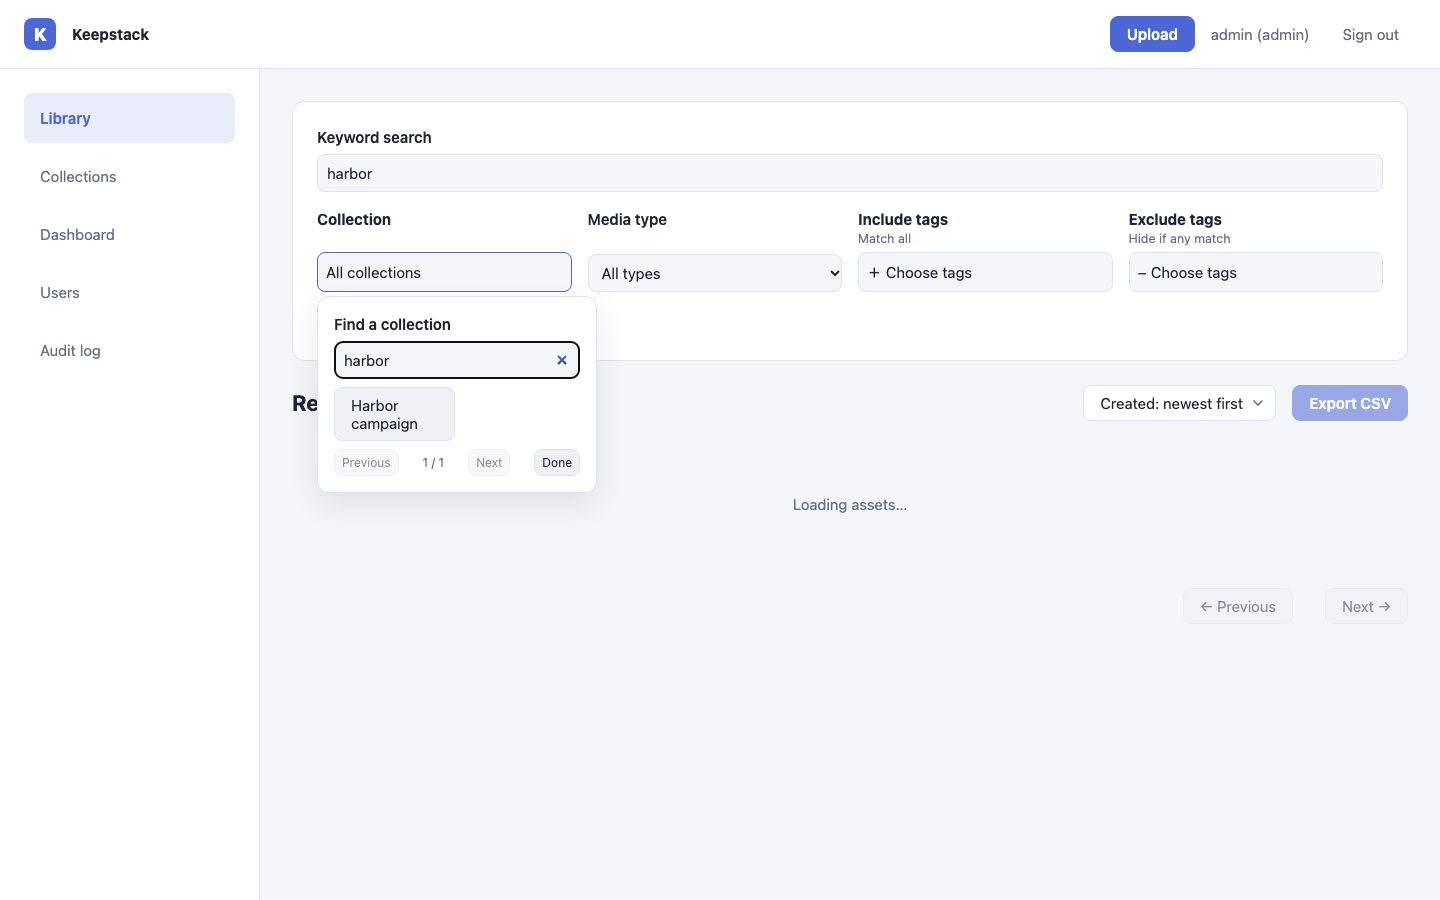
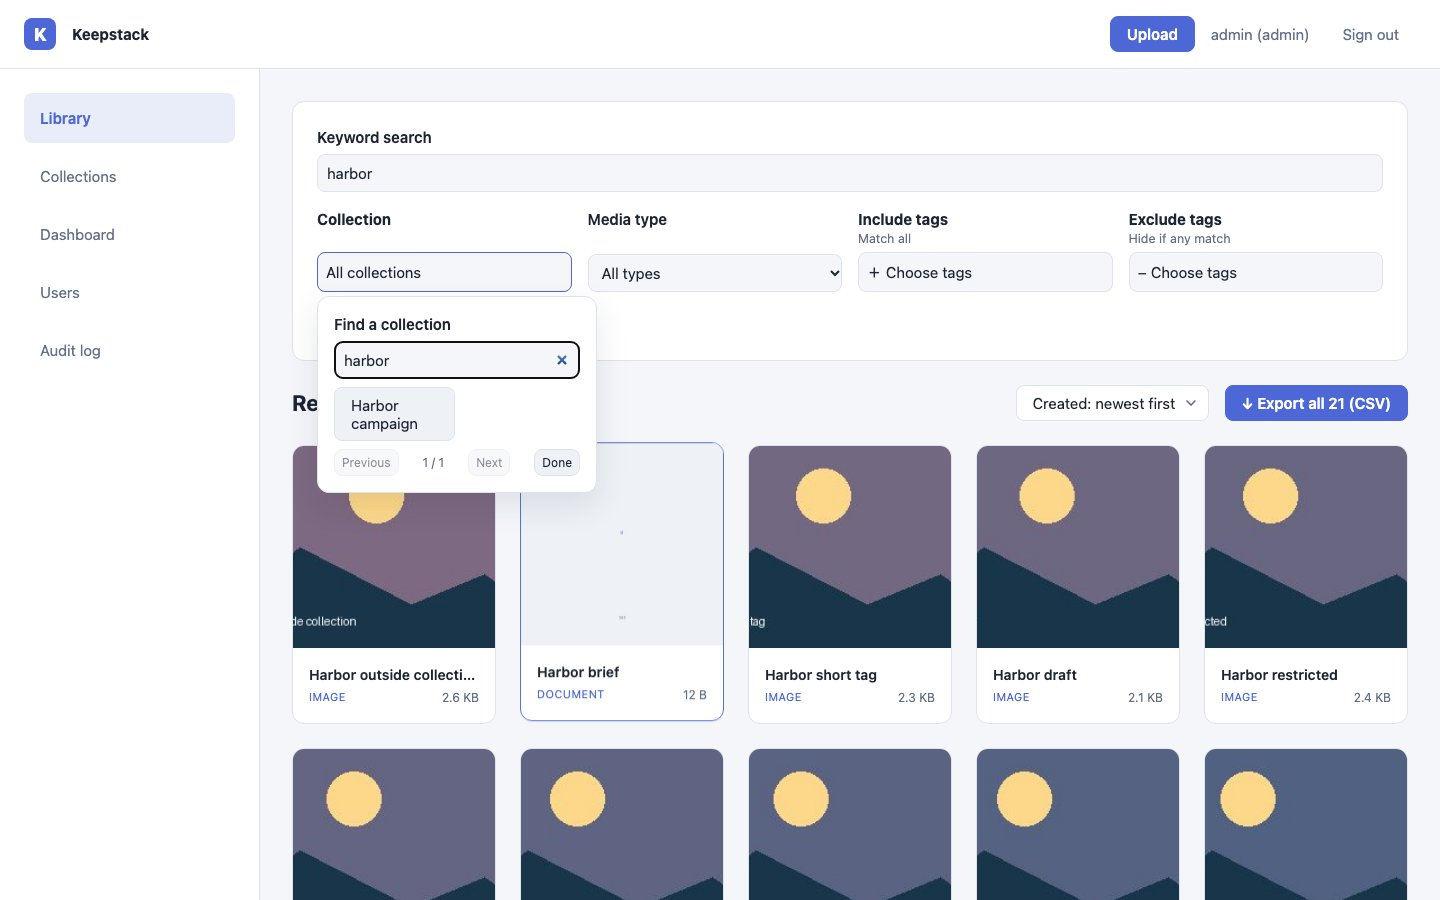
docs: explain acceptance steps and roles in the submission

diff --git a/SUBMISSION.md b/SUBMISSION.md
@@ -1,64 +1,112 @@
 # Keepstack 素材检索测评
 
-[Fork](https://github.com/grumpykendal0622/AI-Engineer-Quiz) · [集成分支 `codex/asset-search`](https://github.com/grumpykendal0622/AI-Engineer-Quiz/tree/codex/asset-search) · [Draft PR](https://github.com/grumpykendal0622/AI-Engineer-Quiz/pull/1) · [验收清单](docs/asset-search-stories.md) · [收尾清单](TODO.md)
+[Fork](https://github.com/grumpykendal0622/AI-Engineer-Quiz) · [分支 `codex/asset-search`](https://github.com/grumpykendal0622/AI-Engineer-Quiz/tree/codex/asset-search) · [Draft PR 与最终提交](https://github.com/grumpykendal0622/AI-Engineer-Quiz/pull/1)
 
-本题交付一条内容运营流程。在 Library 组合关键词、集合、类型和标签，按创建时间浏览，再导出全部匹配行。编辑标题、描述、标签或成员关系后，下一次查询和导出读到新数据。基线为 `3aa137c`。
+这次在 Keepstack 的 Library 加了一条可直接操作的流程。内容运营能把关键词、集合、素材类型和标签叠加起来，看清筛选后的结果，再下载整批素材的 CSV 清单。下面按[题目 README](README.md)的四项要求说明做了什么、怎么验。
 
-## 运行与验证
+## 运行与演示账号
 
-在仓库根目录运行，需 Python 3.10+。使用新的数据目录，不要覆盖现有素材库。
+已有演示服务时直接打开 [http://127.0.0.1:8011](http://127.0.0.1:8011)。README 的 `8000` 是应用默认端口，此处的 `8011` 是演示实例的配置。
+
+从干净 checkout 启动时，在仓库根目录运行下列命令。需要 Python 3.10+。若 `8011` 已被占用，把 `KEEPSTACK_PORT` 改成空闲端口，例如 `8012`，然后打开对应地址。
 
 ```bash
 python3 -m venv .venv
 .venv/bin/python -m pip install -e '.[dev]'
 export KEEPSTACK_DATA_DIR="$(mktemp -d "${TMPDIR:-/tmp}/keepstack-review.XXXXXX")"
-export KEEPSTACK_OCR_ENABLED=false KEEPSTACK_AI_ENABLED=false
-export KEEPSTACK_HOST=127.0.0.1 KEEPSTACK_PORT=8000 KEEPSTACK_BASE_URL=http://127.0.0.1:8000
+export KEEPSTACK_AI_ENABLED=false KEEPSTACK_OCR_ENABLED=false
+export KEEPSTACK_HOST=127.0.0.1 KEEPSTACK_PORT=8011
+export KEEPSTACK_BASE_URL="http://127.0.0.1:${KEEPSTACK_PORT}"
 .venv/bin/python -m keepstack seed
 .venv/bin/python -m keepstack.seed_search
 .venv/bin/python -m keepstack
 ```
 
-打开 <http://127.0.0.1:8000>。在 Library 搜 `harbor`，用 **Collection** 搜选 **Harbor campaign**，类型选 **Image**。包含 `approved` 和 `campaign`，排除 `internal` 和 `restricted`。预期 15 条，分页 12 + 3。第二页点 **Export all 15 (CSV)**，文件有 15 行数据，顺序与拼接两页一致。
+`seed` 生成演示账号和基础素材，`seed_search` 生成题目的 Harbor 场景。每次重新验收可用新的临时数据目录。下表是这套种子数据的本地账号。点右上角 **Sign out** 就能换角色。
 
-集合可新建、添加可选描述、浏览、增减成员和删除。详情里标签、元数据和成员关系一起点 **Save changes**；删除集合或移出成员会保留原素材。返回 Library 后，集合选择、筛选结果和 CSV 反映相应变更。
-
-以下是 seed 生成的本地演示账号。点 **Sign out** 后在同一表单换账号，右上角会显示实际角色。
-
-| 角色 | 用户名 | 密码 |
+| 角色 | 用户名／密码 | 能看到的页面和操作 |
 | --- | --- | --- |
-| Admin | `admin` | `admin` |
-| Editor | `curator` | `demo1234` |
-| Contributor | `contributor` | `demo1234` |
-| Viewer | `viewer` | `demo1234` |
+| Viewer | `viewer`／`demo1234` | 侧栏有 **Library、Collections**。能搜索、排序、翻页、导出 CSV、查看集合及素材详情、下载原文件。隐藏上传、编辑、分享创建和删除入口。 |
+| Contributor | `contributor`／`demo1234` | 同样看到 **Library、Collections**，右上角增加 **Upload**。能编辑素材和标签、创建分享链接、新建集合、改描述及增减成员。隐藏删除素材和集合的入口。 |
+| Editor | `curator`／`demo1234` | 同样看到 **Library、Collections**。拥有 Contributor 的操作，另外能删除素材和集合。 |
+| Admin | `admin`／`admin` | 在 Editor 基础上，侧栏多出 **Dashboard、Users、Audit log**。可以运行完整性检查、添加用户和查看审计记录。 |
 
-## 实测结果
+## 1. 组合筛选
 
-本地 pytest 41 通过、2 跳过（无 CLIP 模型，本机 Tesseract 缺动态库），Chromium 11 通过。覆盖同时间戳分页、请求乱序、CSV 转义与空表头、集合变更后列表与导出同步、上传中断后重试、Viewer 空库提示和详情失败恢复。演示服务 `8011` 实测四个角色登录、筛选和退出。
+- **关键词**沿用原来的全文搜索。可搜标题、描述、文件名、标签等已索引内容。搜索框留空就不限关键词。
+- **Collection** 可以搜索集合名、翻页、单选，也可以选 **All collections**。**Media type** 可继续限制图片、视频等类型。
+- **Include tags** 选两个标签时，素材必须同时带有这两个标签。**Exclude tags** 选两个标签时，素材只要带其中任何一个就会被排除。标签按完整名称匹配，`camp` 和 `campaign` 是不同标签。大小写和重复输入不改变结果。同一标签同时包含和排除时，页面提示冲突并显示零条。
+- 所有条件必须同时满足，结果只显示在库素材。生效条件列在筛选栏下方，可以单独移除，也可以点 **Clear all**。标题显示当前匹配数。
 
-集成代码提交 `86240f1a29832428832412fff03f29521981e4ef` 的 CI 通过。Python 3.10／3.12 各 42 通过、1 跳过（缺 CLIP 模型），Chromium 11 通过。[代码 CI](https://github.com/grumpykendal0622/AI-Engineer-Quiz/actions/runs/45769804097) · [集成分支运行记录](https://github.com/grumpykendal0622/AI-Engineer-Quiz/actions?query=branch%3Acodex%2Fasset-search)
+**怎么验。** 用 Admin 登录，在 Library 搜 `harbor`，将 **Collection** 设为 **Harbor campaign**，类型选 **Image**，包含 `approved` 和 `campaign`，排除 `internal`。干净的演示数据会匹配 **16 条**。再排除 `restricted`，会少一张带该标签的图片，剩 **15 条**。
 
-[集合选择器](docs/screenshots/quiz-collection-picker.jpg) · [第二页与全量导出](docs/screenshots/quiz-library-export.jpg) · [集合描述和成员](docs/screenshots/quiz-collection-members.jpg) · [上传中断与 Retry](docs/screenshots/quiz-upload-retry.jpg)
+## 2. 排序与分页
 
-测试使用独立临时数据，无需启动演示服务或手动 seed。
+- 可按创建时间选择最新或最早优先，输入关键词后也按这个顺序排列。每页 12 条，页面会显示总数和上一页／下一页。
+- 创建时间相同的素材按固定顺序排列。测试逐页核对过，同一批数据翻页时没有重复或遗漏。
+- 改筛选或排序回到第一页。测试故意让旧搜索晚回来，页面仍显示刚刚选择的条件。没有匹配素材时提示调整筛选，接口失败时可以点 **Retry**。非法分页参数会被拒绝，引号、星号和中文等搜索输入可以正常提交。
+
+**怎么验。** 用上面的 15 条结果，第一页有 12 张，第二页有 3 张。留在第二页切到最早优先，页面会回到第一页，最早的素材排到前面。
+
+## 3. 导出全部匹配结果
+
+- **Export all (CSV)** 下载整个搜索结果。文件沿用点击时的关键词、集合、类型、标签和排序。只要能按当前角色查看这些结果，登录后就能下载清单。
+- 列为 `uuid`、`title`、`description`、`filename`、`media_type`、`tags`、`created_at`。多个标签写成 JSON 数组，例如 `["approved","campaign"]`，无标签写成 `[]`。
+- 实测中文、逗号、引号和字段内换行可以完整读回。零条结果仍可下载表头。下载失败会显示提示。CSV 只包含清单，原文件可在素材详情单独下载。
+
+**怎么验。** 在第二页还只看到 3 张图时，点 **Export all 15 (CSV)**。打开文件会有 **15 行数据**。测试还逐条核对过，文件顺序和两页列表拼起来一致。
+
+## 4. 修改后结果正确
+
+- 在 Library 或 Collections 点开任一素材，使用同一个详情抽屉。标题、描述、标签和所属集合可以一起改，点一次 **Save changes** 生效。标签和集合选项都可以搜索和翻页。
+- 保存后用新内容搜索，可以在列表和新下载的 CSV 里看到修改。增删标签或集合成员也会影响它能否被相应条件选中。保存失败时草稿保留，可重试。
+
+**怎么验。** 给 `Harbor view 01` 的描述加上 `reviewnote`，保存后在 Library 搜这个词。该素材会出现，下载的 CSV 能读到新描述。这条流程已用真实页面和下载文件复测。
+
+## 补充完成的功能和取舍
+
+- **Collections 负责管理集合。** 可以新建空集合、填写或编辑可选描述、看成员、批量加素材。用详情抽屉可以把素材移出集合或加入其他集合。移出成员和删除集合都保留原素材。Library 的集合选项、列表和 CSV 随集合变化更新。
+- **Library 负责跨集合找素材和导出。** 将原侧栏标签和素材类型入口放到 Library 筛选区，使条件和结果在同一页。Collections 保留浏览与成员管理。Dashboard、Users 和 Audit log 继续由 Admin 打开。保留 FastAPI、SQLite／FTS5 和原生 JavaScript。
+- **上传和失败恢复。** 每个文件显示排队、上传中、成功、重复或失败。测试中断一个文件后，其余文件继续，恢复连接后可以单独重试。Viewer 的空库只提示暂无素材。详情主请求、嵌入元数据和相似素材各自可重试，编辑草稿保留。
+
+## 自动化验证与剩余限制
+
+本地运行下列命令，测试会自建临时数据。已在干净数据上走完上面的 Harbor 操作，并逐个用四种账号检查可见页面与操作。
 
 ```bash
 .venv/bin/python -m pytest -q
 .venv/bin/python -m pip install -e '.[dev,e2e]'
 .venv/bin/python -m playwright install chromium
-KEEPSTACK_E2E_OUTPUT=test-results/browser .venv/bin/python -m pytest -q tests/e2e_workflows.py
+.venv/bin/python -m pytest -q tests/e2e_workflows.py
 ```
 
-## 主要取舍
+[GitHub Actions](https://github.com/grumpykendal0622/AI-Engineer-Quiz/actions/runs/45770028095) 验证提交 `257072fe8eed990b7863eb65db59b8745a1234df`。Python 3.10、3.12 各 42 通过、1 跳过（缺 CLIP 模型），Playwright 11 通过。最终评审提交 SHA 与文档更新后的检查见 [Draft PR](https://github.com/grumpykendal0622/AI-Engineer-Quiz/pull/1)。附有[逐项边界验证](docs/asset-search-stories.md)和[后续清单](TODO.md)。
 
-- **侧栏与集合。** Library 是唯一的筛选和 CSV 入口。侧栏 Collections 专注建集合、看成员、编辑描述和增减成员。Library 的集合选择器与标签共用搜索和分页，但按题目规则只选一个集合。原侧栏 Top Tags 和 Media Type 快捷入口并入 Library，避免在管理页点击时难以判断作用范围。保留 Dashboard、Users、Audit log 的 admin 入口。
-- **筛选与导出。** 保留 FTS5 字段和分词，只查 `active` 素材。包含项须全部命中，排除项命中任一即排除。侧栏筛选计数取消，标题显示匹配总量。列表和 CSV 共享查询条件与排序，以 ID 打破同时间戳并列。每页 12 条，CSV 包含全部匹配行的元数据。CSV 用 UTF-8 BOM，`tags` 是按名称排序的 JSON 数组，无标签时为 `[]`。
-- **编辑与同步。** 同一个详情表单提交元数据、标签和成员关系；失败保留草稿。集合编辑完成后刷新当前应用的数据。集合管理与 Library 的搜索状态独立。
+- **上传与容量。** 图片和其他素材默认单文件上限 1024 MiB，可配置。支持图片、文档、视频和音频，预览随格式而异。空文件和损坏的光栅图会被拒绝。按文件内容去重，重试会从该文件开头上传。CSV 测过 207 条，浏览器会先接收完整文件。列表与 CSV 的一致性以数据不变为前提。
+- **未完成及范围外。** 分享、删除素材及 Users／Dashboard 的失败提示还有改进空间。保留现有相似素材和留存日期功能。后台导出、实时同步、语义检索优化、自动留存和在线部署均在本题范围外。
 
-## 限制与未完成项
+## 关键页面截图
 
-- **上传。** 图片和其他素材共用默认 1024 MiB 的单文件上限，可用 `KEEPSTACK_MAX_UPLOAD_MB` 调整。拒绝空文件和损坏的光栅图。支持文档（如 CSV）、视频、音频等素材，预览能力因格式而异。按文件内容去重。中断后当前文件可 Retry，已成功文件保留，批次继续。无断点续传。
-- **数据规模。** 已测试导出 207 条。浏览器下载前会缓冲 CSV。数据不变时保证分页和导出一致，无跨请求快照或跨客户端实时同步。
-- **失败恢复。** 列表或主详情失败可 Retry，CSV 失败有提示，保存失败保留草稿。嵌入元数据和 Similar assets 可以单独重试。
-- **已知辅助场景。** 模拟分享、删除素材、Users 或 Dashboard 失败时，页面框架仍在，相关操作缺明确反馈。已记入 [收尾清单](TODO.md)。
-- **题目范围外。** 语义搜索和模型优化、后台导出、新权限体系、在线部署、留存自动执行。保留既有 Similar assets，留存日期只存值。
+**Library 集合选择器。** 输入 `harbor` 后可以选中 Harbor campaign，再叠加标签和素材类型。
+
+![Library 集合选择器按名称搜索 Harbor campaign](docs/screenshots/quiz-collection-picker.jpg)
+
+**分页与 CSV。** 当前页显示第 13–15 条，按钮仍会导出全部 15 条。
+
+![Library 第二页与全量 CSV 入口](docs/screenshots/quiz-library-export.jpg)
+
+**Collections。** 集合内先读描述，再看成员，有权限时可点 Add assets。
+
+![集合描述、成员与添加入口](docs/screenshots/quiz-collection-members.jpg)
+
+**素材详情。** 在同一表单改描述、标签和所属集合，并统一保存。
+
+![素材详情编辑表单与 Save changes](docs/screenshots/quiz-asset-editor.jpg)
+
+**Viewer。** 可在 Library 搜索和导出，界面隐藏 Upload 和管理页。
+
+![Viewer 的只读 Library](docs/screenshots/quiz-viewer-library.jpg)
+
+**上传中断。** 界面保留成功项，在失败文件一行提供 Retry。
+
+![单文件上传失败和重试入口](docs/screenshots/quiz-upload-retry.jpg)
